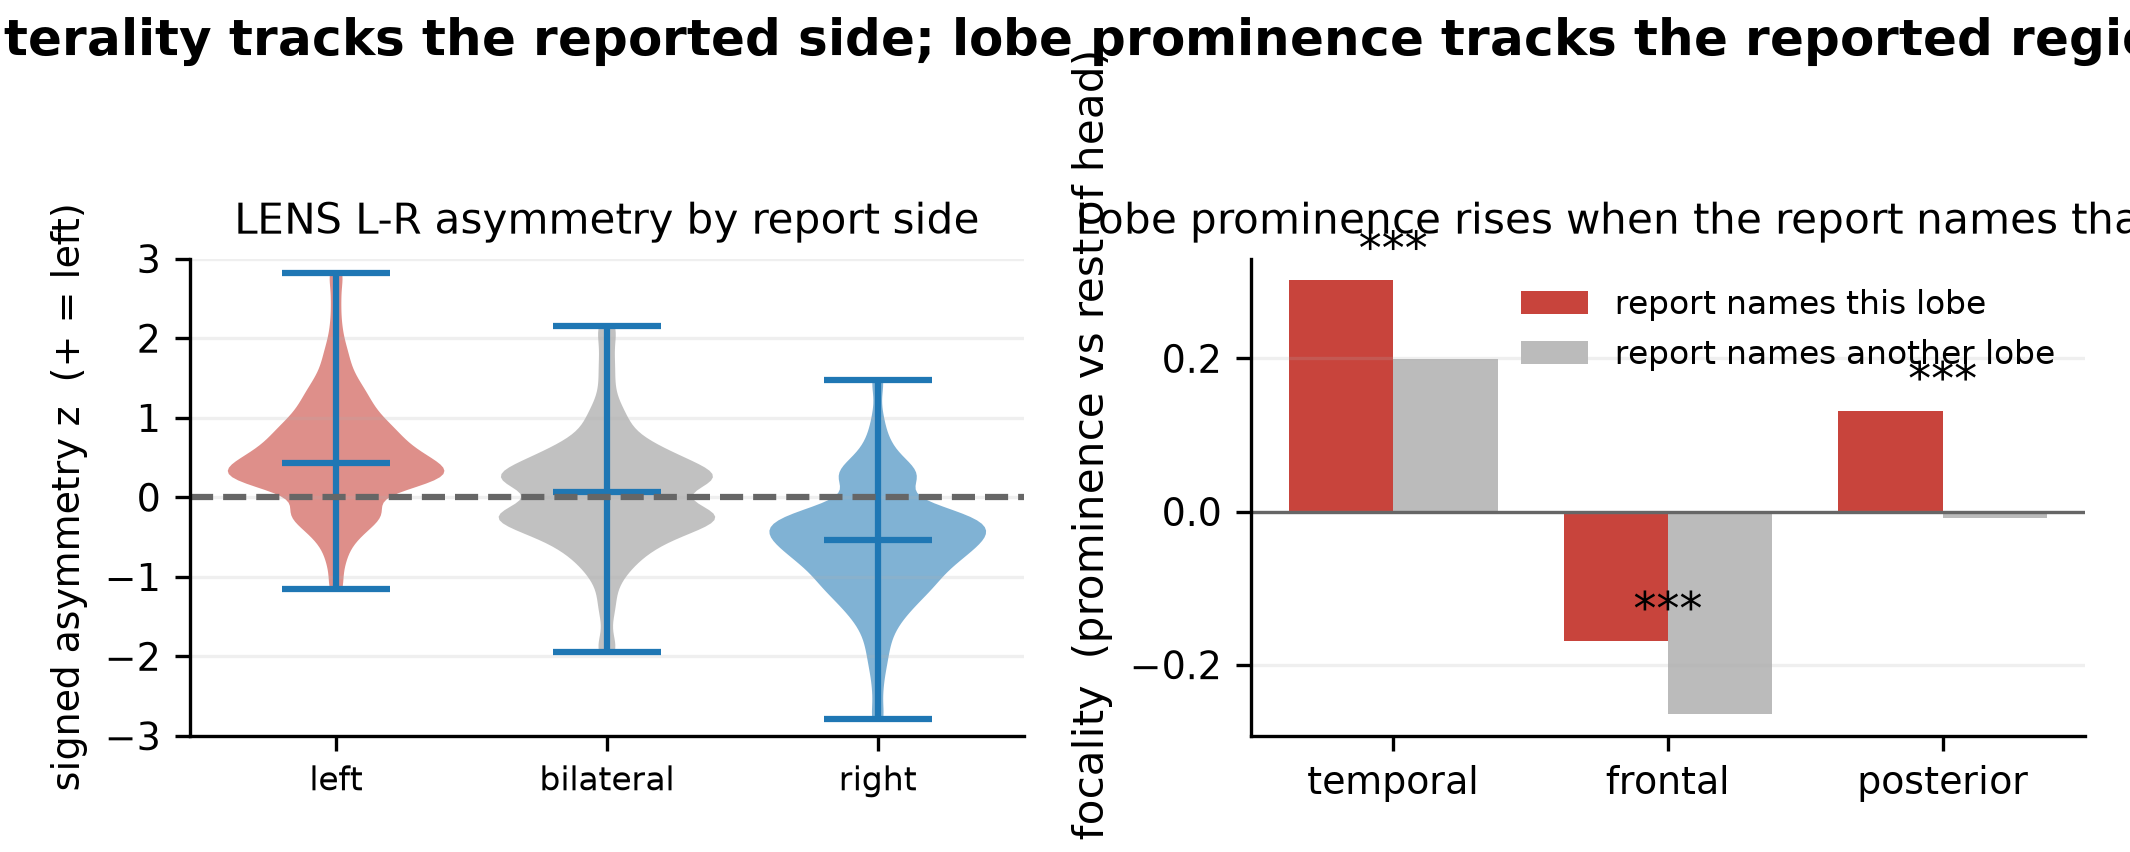
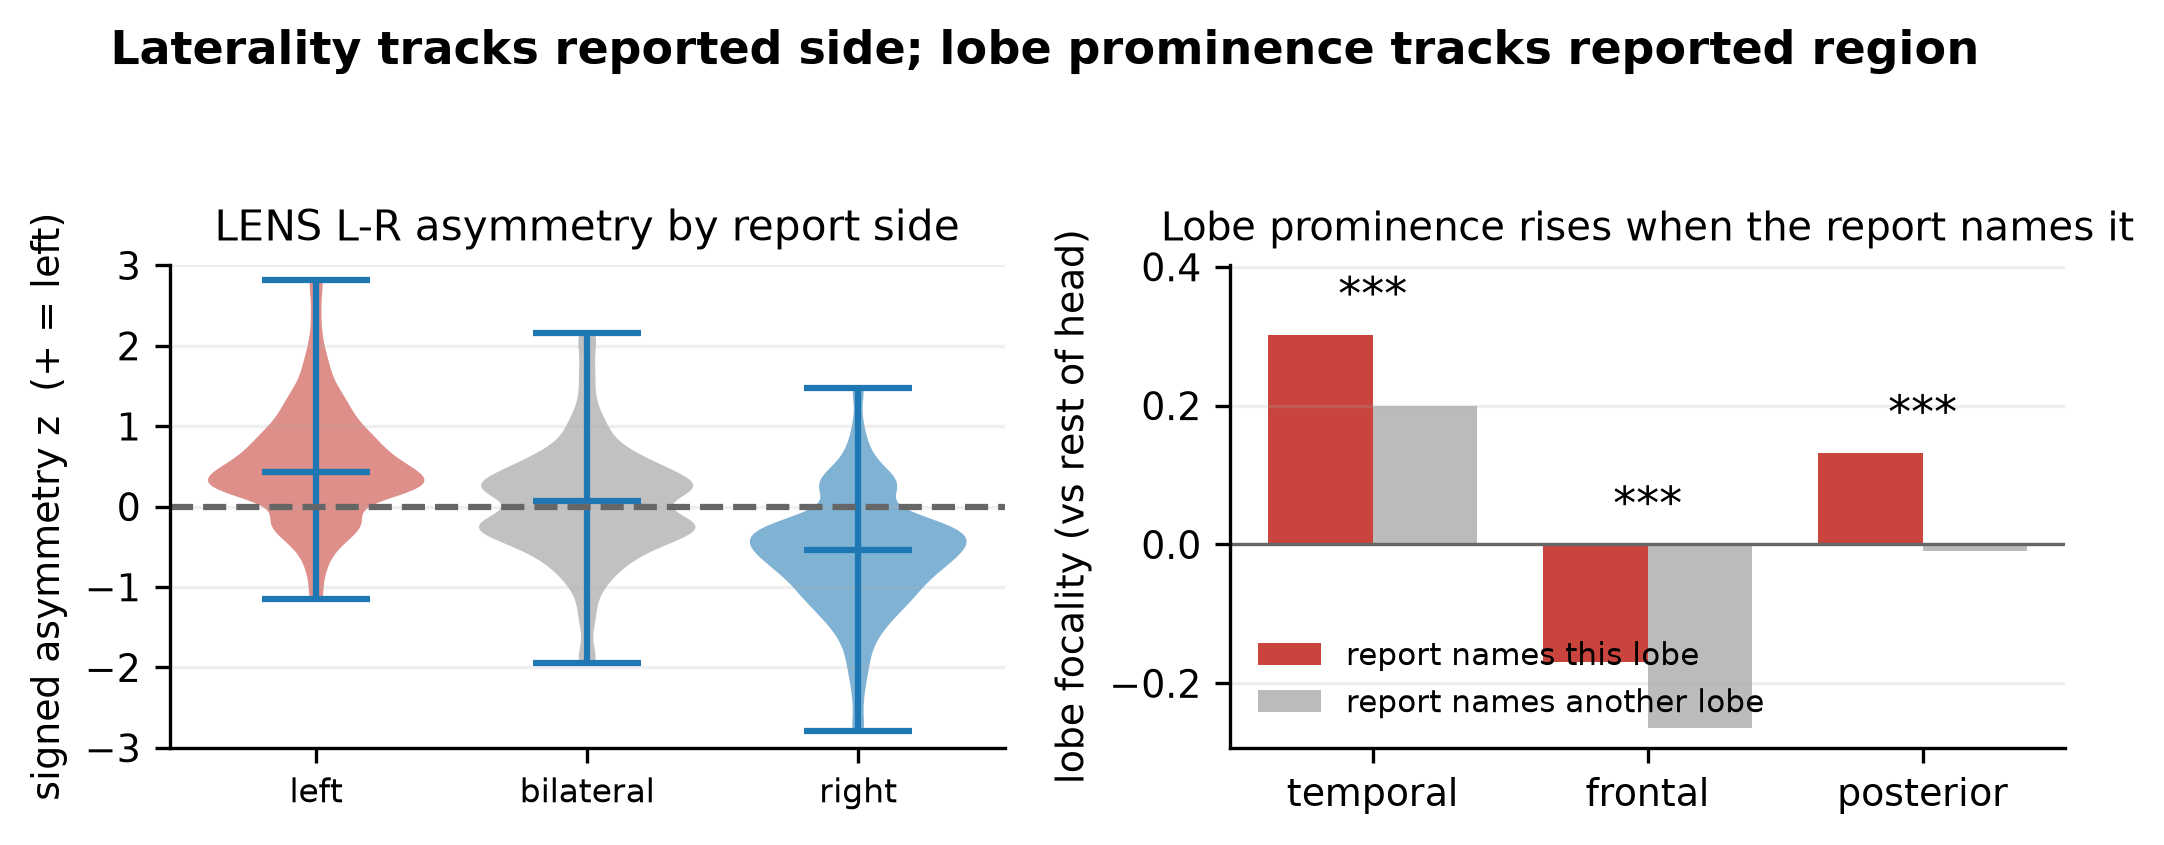
Fix Figure 1B's per-row colour scale and Figure 6's clipped text
Figure 1B (scripts/77). vmin/vmax were computed INSIDE the stage loop, so each
row was normalised on its own range and carried its own colourbar: rel_delta ran
0.2-0.4 in W but 0.5-0.6 in N3. The figure is titled "by age & sleep stage" and
its layout invites a vertical read, but under per-row scaling the same red meant
about 0.3 more rel_delta in N3 than in W -- the comparison the figure encourages
was the one it could not support. Now one scale and one colourbar for the grid,
which makes the real relationship visible: N3 is redder than W at every age, and
the age gradient within each row still reads clearly across half the colormap.

Also in 1B: set_title fired on every subplot, repeating the twelve age-band
labels on all five rows and colliding them with the topoplots above. Labels are
now on the top row only, with each row's n range beside its stage label.

Figure 6 (scripts/57). Text was being cut because savefig had no bbox_inches and
the strings did not fit: measured against the 7.10 in canvas, the bold suptitle
needed 7.65 in and the right subplot title 3.97 in of an available 3.55 in, so
both lost characters at each end and the y-label overran into the neighbouring
panel. Shortened all three (now 6.02 / 3.14 / 1.92 in) and added bbox-tight as a
backstop.

Two more in the same panel: significance markers were placed at
max(inn, out) + 0.02, which for frontal -- where both means are negative -- put
[…]

Changed region(s): [[0.0, 0.0, 1.0, 0.9846], [0.7127, 0.3385, 0.9296, 0.3692]]

diff --git a/scripts/57_description_panels.py b/scripts/57_description_panels.py
@@ -109,13 +109,21 @@ def main():
     ax[1].bar(xx + w/2, [g.mean() for g in out], w, color="#bbb", label="report names another lobe")
     for i in range(len(lobes)):
         p = mannwhitneyu(inn[i], out[i]).pvalue
-        ax[1].text(xx[i], max(inn[i].mean(), out[i].mean()) + .02, "***" if p < 1e-3 else "**", ha="center", fontsize=11)
+        # anchor above the ZERO line, not above the taller mean: for frontal both means are negative, so
+        # max() put the marker at the top of the less-negative bar, detached from the pair it annotates.
+        ax[1].text(xx[i], max(inn[i].mean(), out[i].mean(), 0) + .035,
+                   "***" if p < 1e-3 else "**", ha="center", fontsize=11)
         rl.append(f"{lobes[i][0]} {inn[i].mean():+.2f} vs {out[i].mean():+.2f} (p={p:.0e})")
     ax[1].axhline(0, color="#666", lw=.8); ax[1].set_xticks(xx); ax[1].set_xticklabels([l for l, _ in lobes])
-    ax[1].set_ylabel("lobe focality  (prominence vs rest of head)"); ax[1].legend(frameon=False, fontsize=8)
-    ax[1].set_title("Lobe prominence rises when the report names that lobe", fontsize=10); ax[1].grid(alpha=.2, axis="y")
-    fig.suptitle("Laterality tracks the reported side; lobe prominence tracks the reported region", fontsize=12)
-    fig.tight_layout(rect=[0, 0, 1, 0.93]); fig.savefig(FIG / "s4_d2.png", dpi=300); plt.close(fig)
+    # headroom for the significance markers: without it the tallest one (temporal) sits at the axes top and
+    # overlaps the subplot title.
+    _lo, _hi = ax[1].get_ylim()
+    ax[1].set_ylim(_lo, max(_hi, max(max(i.mean(), o.mean(), 0) for i, o in zip(inn, out)) + .10))
+    ax[1].set_ylabel("lobe focality (vs rest of head)", fontsize=9)
+    ax[1].legend(frameon=False, fontsize=7.5, loc="lower left")
+    ax[1].set_title("Lobe prominence rises when the report names it", fontsize=9.5); ax[1].grid(alpha=.2, axis="y")
+    fig.suptitle("Laterality tracks reported side; lobe prominence tracks reported region", fontsize=11)
+    fig.tight_layout(rect=[0, 0, 1, 0.93]); fig.savefig(FIG / "s4_d2.png", dpi=300, bbox_inches="tight"); plt.close(fig)
     md.append("- region (focality dose-response): " + "; ".join(rl) + "\n")
 
     # ---------- D3 ant-post ----------
@@ -155,8 +163,8 @@ def main():
         m = [dd[dd.stage == st].prevalence.mean() for st in STAGES]
         ax[0].plot(xs, m, "o-", color=col, label=grp)
     ax[0].set_xticks(list(xs)); ax[0].set_xticklabels(STAGES)
-    ax[0].set_ylabel("prevalence (mean)"); ax[0].set_title("Slowing prevalence by stage — gap persists into sleep", fontsize=10)
-    ax[0].legend(frameon=False, fontsize=8); ax[0].grid(alpha=.2)
+    ax[0].set_ylabel("prevalence (mean)"); ax[0].set_title("Slowing prevalence by stage: gap persists into sleep", fontsize=9.5)
+    ax[0].legend(frameon=False, fontsize=8, loc="upper right"); ax[0].grid(alpha=.2)
     for band, col in [("delta_p90", "#c8443c"), ("theta_p90", "#2c7fb8")]:
         m = [Sm[Sm.slowing][Sm[Sm.slowing].stage == st][band].median() for st in STAGES]
         ax[1].plot(xs, m, "o-", color=col, label=band.replace("_p90", "-excess z"))
@@ -164,7 +172,7 @@ def main():
     ax[1].set_ylabel("deviation z (median)"); ax[1].set_title("Band deviation by stage (report slowing)", fontsize=10)
     ax[1].legend(frameon=False, fontsize=8); ax[1].grid(alpha=.2)
     fig.suptitle("Stage-resolved: the slowing signal is present in sleep, not only wake", fontsize=12)
-    fig.tight_layout(rect=[0, 0, 1, 0.94]); fig.savefig(FIG / "s4_d5.png", dpi=300); plt.close(fig)
+    fig.tight_layout(rect=[0, 0, 1, 0.94]); fig.savefig(FIG / "s4_d5.png", dpi=300, bbox_inches="tight"); plt.close(fig)
     # under-reporting probe: among report-negative recordings, N2 deviation still sits above clean-normal N2
     neg = Sm[(Sm.clean_normal != True) & (~Sm.slowing)]                                      # abnormal, report does not call slowing
     cnn2 = Sm[(Sm.clean_normal == True) & (Sm.stage == "N2")].prevalence.mean()              # noqa: E712

diff --git a/scripts/77_topoplots_by_age.py b/scripts/77_topoplots_by_age.py
@@ -56,14 +56,22 @@ def to_electrodes(chan_series):
 
 def render(tab, info, feature):
     fig, axes = plt.subplots(len(STAGES), len(AGE_BINS), figsize=(min(7.1, 1.7 * len(AGE_BINS)), min(7.1, 1.7 * len(AGE_BINS)) / (1.7 * len(AGE_BINS)) * 2.3 * len(STAGES)))
-    for ri, stage in enumerate(STAGES):
-        vals_by_bin = []
+    # ONE colour scale for the whole grid. This was computed per stage, so each row was normalised on its
+    # own range (rel_delta: W 0.2-0.4 but N3 0.5-0.6) and carried its own colourbar. The figure invites a
+    # vertical comparison -- its title says "by age & sleep stage" -- but under per-row scaling the same red
+    # meant ~0.3 more rel_delta in N3 than in W, so the comparison the layout encourages was misleading.
+    grid = {}
+    for stage in STAGES:
         for (lo, hi) in AGE_BINS:
             sub = tab[(tab.stage == stage) & (tab.age >= lo) & (tab.age < hi)]
-            vals_by_bin.append(to_electrodes(sub.groupby("region")[feature].median()))
-        allv = np.concatenate([v[~np.isnan(v)] for v in vals_by_bin]) if vals_by_bin else np.array([0, 1])
-        vmin, vmax = np.nanpercentile(allv, 5), np.nanpercentile(allv, 95)
-        im = None
+            grid[(stage, lo, hi)] = to_electrodes(sub.groupby("region")[feature].median())
+    _all = np.concatenate([v[~np.isnan(v)] for v in grid.values()]) if grid else np.array([0, 1])
+    vmin, vmax = np.nanpercentile(_all, 5), np.nanpercentile(_all, 95)
+
+    im = None
+    for ri, stage in enumerate(STAGES):
+        vals_by_bin = [grid[(stage, lo, hi)] for (lo, hi) in AGE_BINS]
+        row_n = []
         for ci, ((lo, hi), vals) in enumerate(zip(AGE_BINS, vals_by_bin)):
             ax = axes[ri, ci]
             nrec = tab[(tab.stage == stage) & (tab.age >= lo) & (tab.age < hi)].bdsp_id.nunique()
@@ -72,12 +80,20 @@ def render(tab, info, feature):
                                              show=False, cmap="RdYlBu_r", vlim=(vmin, vmax),
                                              contours=4, sensors=True, image_interp="cubic",
                                              extrapolate="head", res=128)
-            ax.set_title(f"{BIN_LABELS[ci]}\nn={nrec}", fontsize=6.5)
+            # age labels on the TOP ROW ONLY. Titling every subplot repeated the band labels five times and
+            # collided them with the topoplots above; the per-row n moves beside the stage label instead.
+            if ri == 0:
+                ax.set_title(BIN_LABELS[ci], fontsize=6.5)
+            row_n.append(nrec)
             if ci == 0:
-                ax.text(-0.3, 0.5, stage, transform=ax.transAxes, fontsize=8, fontweight="bold",
+                ax.text(-0.34, 0.5, stage, transform=ax.transAxes, fontsize=8, fontweight="bold",
                         rotation=90, va="center")
-        if im is not None:
-            fig.colorbar(im, ax=list(axes[ri]), fraction=0.015, pad=0.01).set_label(feature, fontsize=6.5)
+        if row_n:
+            axes[ri, 0].text(-0.62, 0.5, f"n={min(row_n)}--{max(row_n)}", transform=axes[ri, 0].transAxes,
+                             fontsize=5.5, rotation=90, va="center", color="#555")
+    if im is not None:
+        cb = fig.colorbar(im, ax=axes.ravel().tolist(), fraction=0.013, pad=0.012)
+        cb.set_label(feature, fontsize=6.5); cb.ax.tick_params(labelsize=6)
     fig.suptitle(f"Regional {feature} across the head by age & sleep stage (normal EEGs, cohort+expansion)\n"
                  f"per 10-20 electrode (median over patients, mean of incident bipolar chains); "
                  f"n={tab.bdsp_id.nunique()} recordings", fontsize=7.5)

diff --git a/scripts/assemble_manuscript_figures.py b/scripts/assemble_manuscript_figures.py
@@ -102,10 +102,12 @@ def compose(out_path: Path, panels: list[str], ncols: int) -> bool:
         r, c = divmod(i, ncols)
         ax = fig.add_subplot(gs[r, c]); ax.imshow(im); ax.axis("off")
         if n > 1:
-            ax.text(0.0, 1.0, chr(65 + i), transform=ax.transAxes, fontsize=17, fontweight="bold",
-                    va="bottom", ha="left")
-    fig.savefig(out_path, dpi=300, bbox_inches="tight", facecolor="white")
-    fig.savefig(out_path.with_suffix(".pdf"), dpi=300, bbox_inches="tight", facecolor="white")  # publication PDF
+            # OUTSIDE the axes: at (0, 1) the letter sat on the panel image and covered the neighbouring
+            # y-axis label ("signed asymmetry z" lost its first character in Figure 6).
+            ax.text(-0.015, 1.015, chr(65 + i), transform=ax.transAxes, fontsize=17, fontweight="bold",
+                    va="bottom", ha="right")
+    fig.savefig(out_path, dpi=300, bbox_inches="tight", pad_inches=0.06, facecolor="white")
+    fig.savefig(out_path.with_suffix(".pdf"), dpi=300, bbox_inches="tight", pad_inches=0.06, facecolor="white")  # publication PDF
     plt.close(fig)
     return True
 
